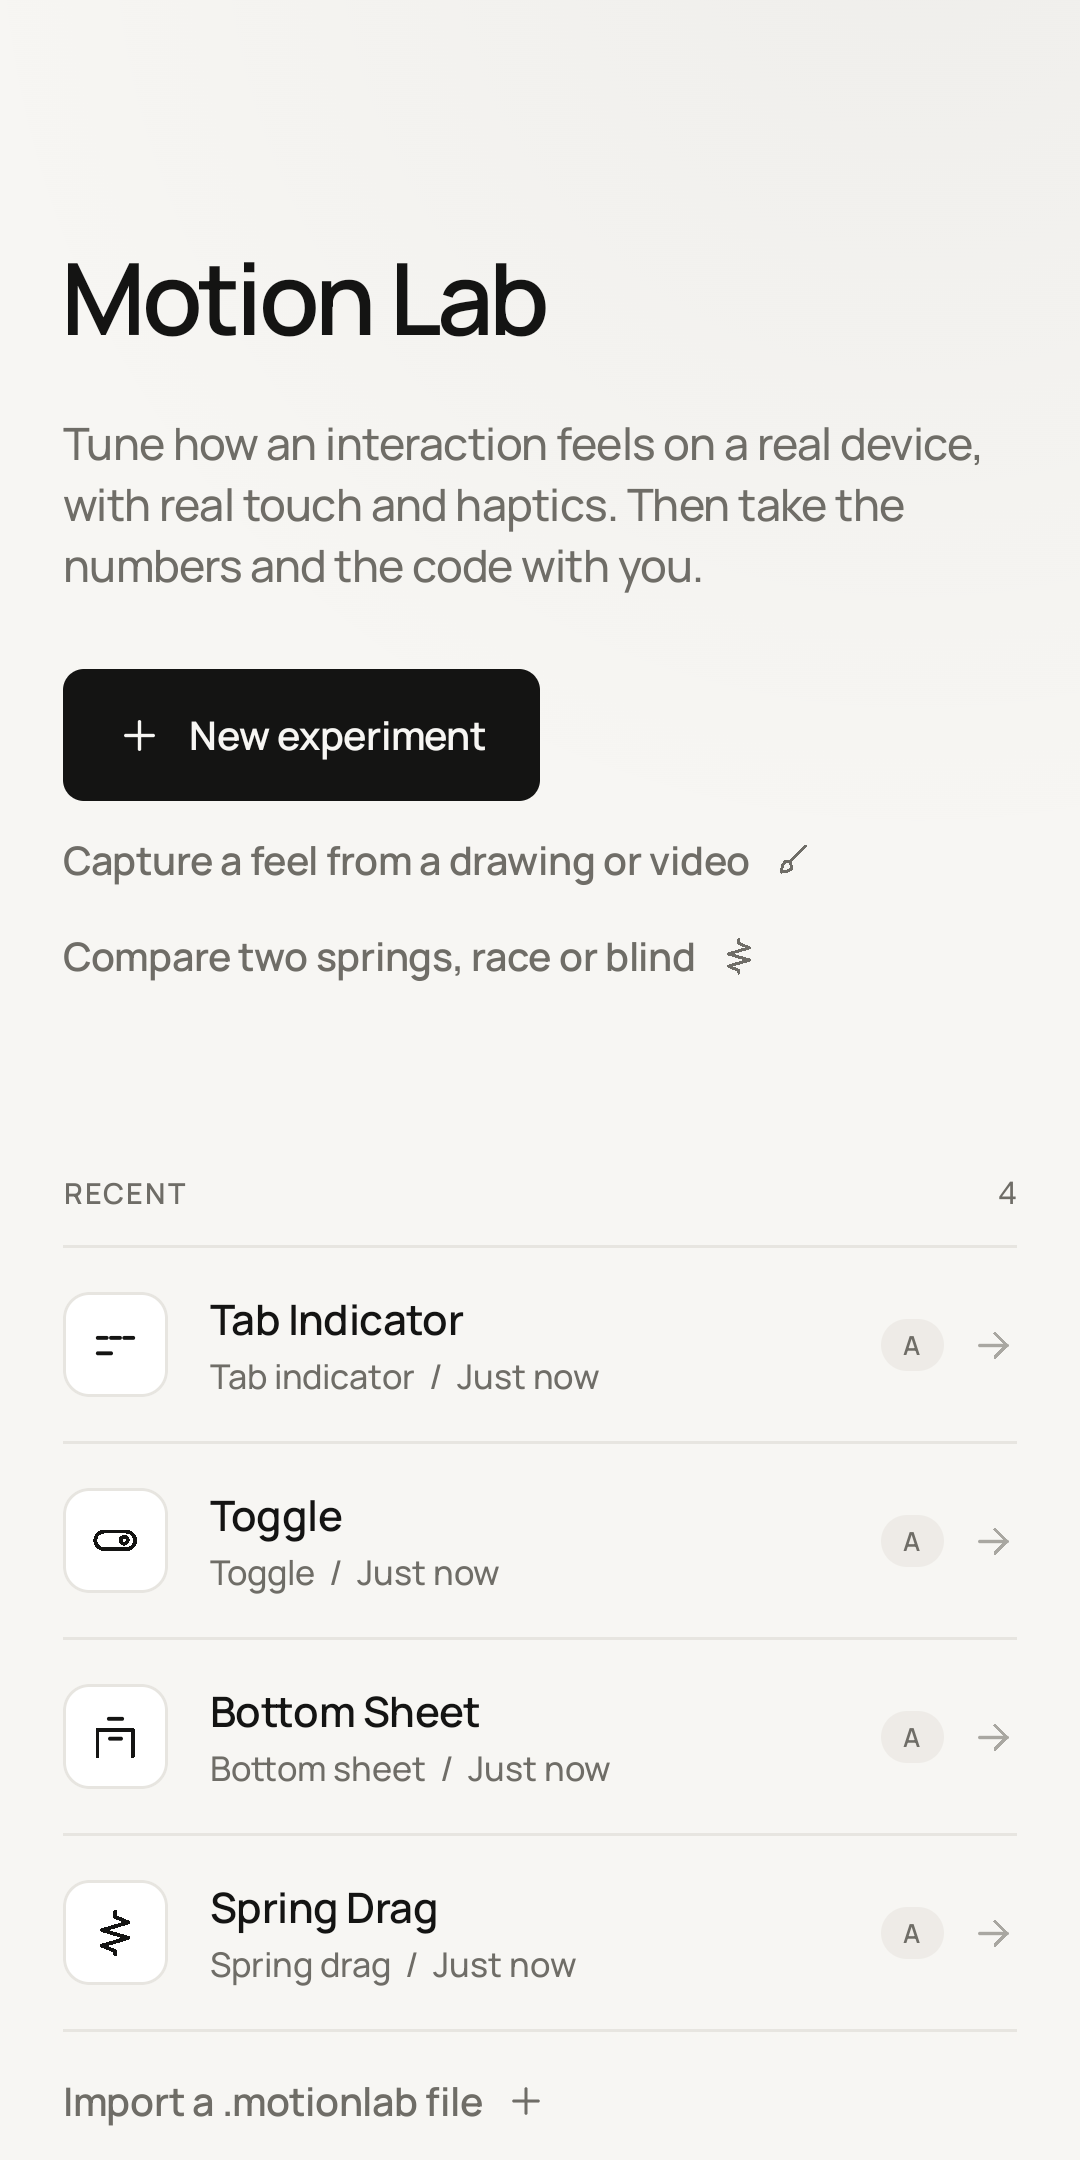
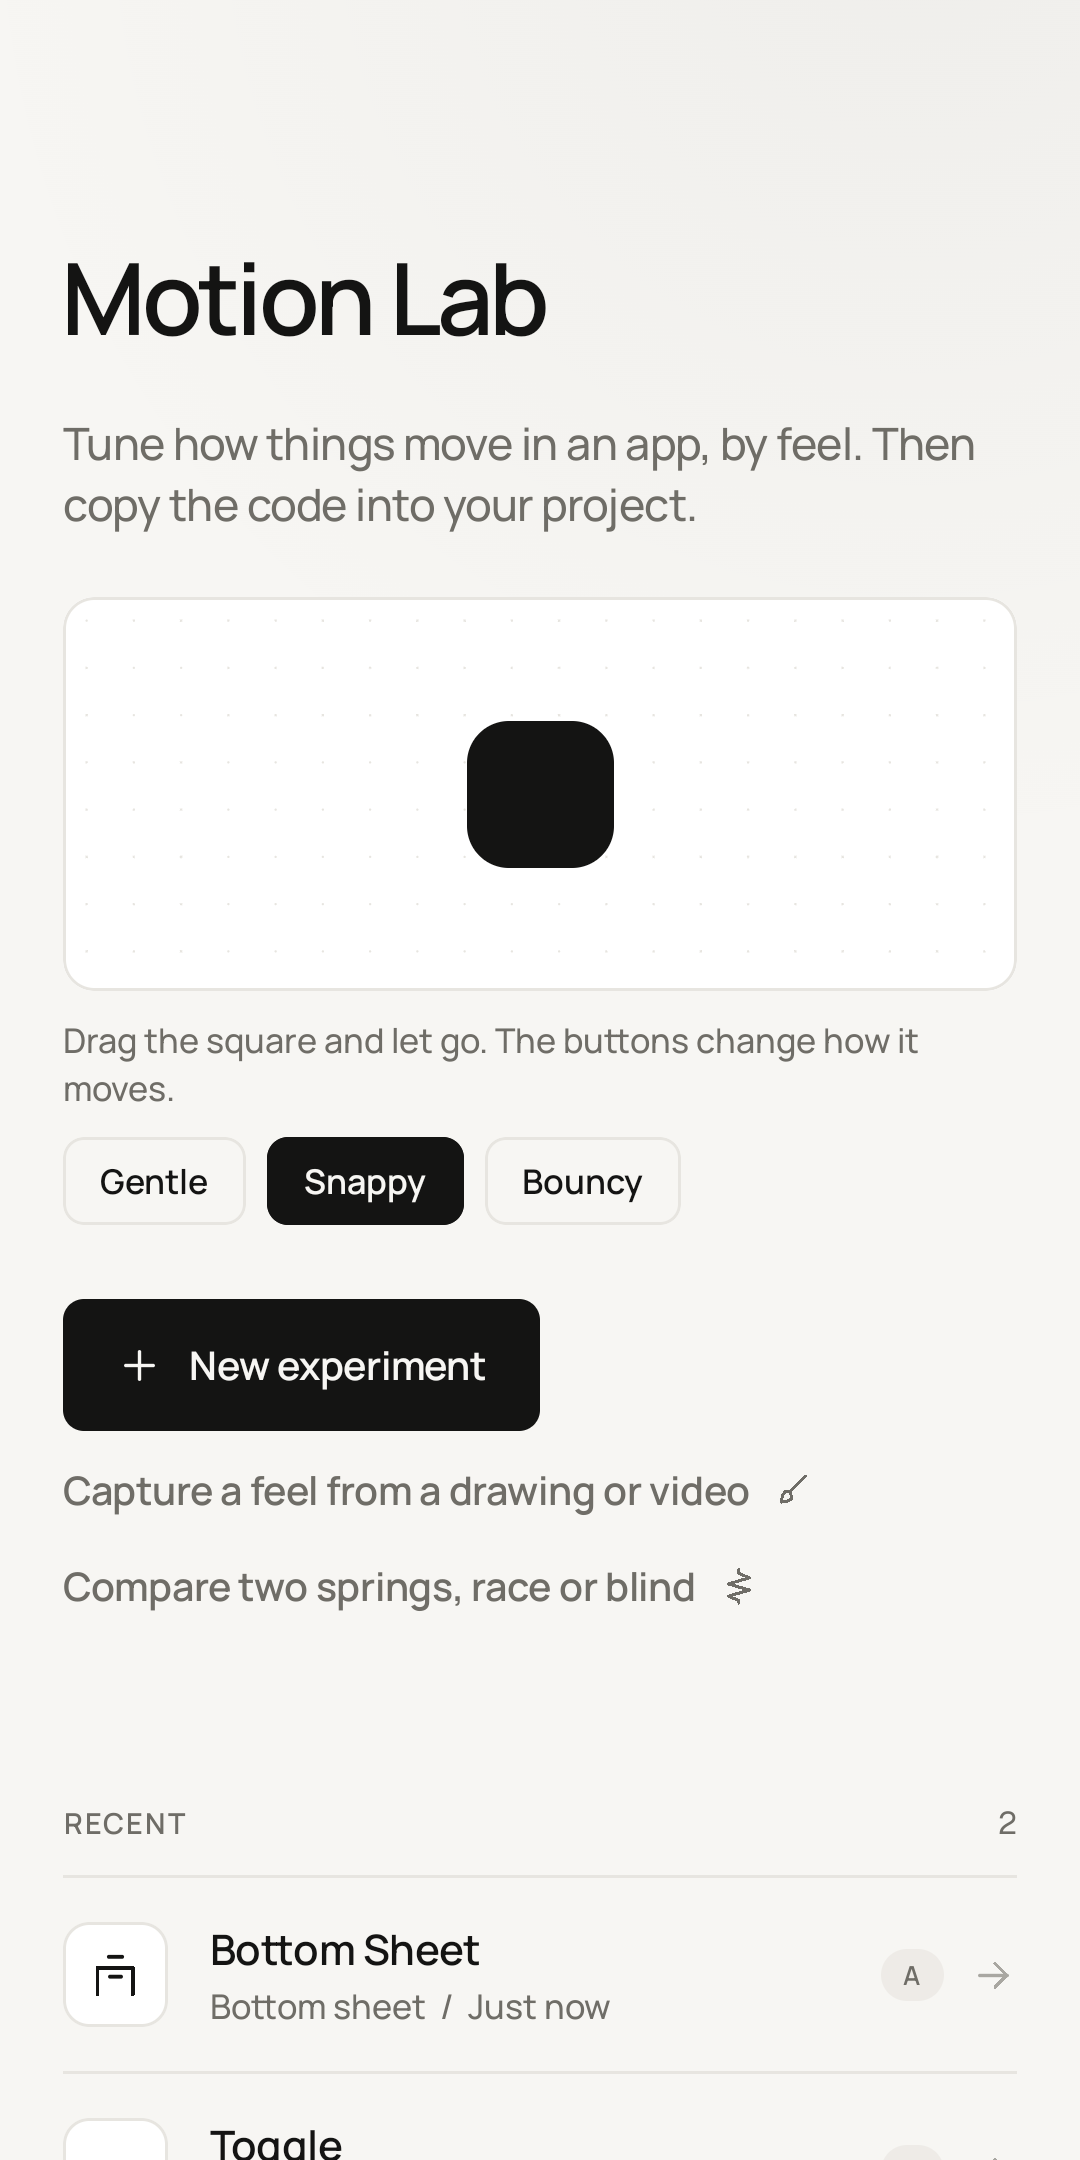
Make the first screen explain itself
- Home opens with a live demo: drag the square, three feel buttons change how it moves
- plain-language hints under Stiffness and Damping in every editor
- the screenshot button now sits in the stage corner instead of floating over the page
- refreshed store screenshots; tests for the demo and hints

diff --git a/app/src/main/java/com/motionlab/app/feature/home/HomeDemo.kt b/app/src/main/java/com/motionlab/app/feature/home/HomeDemo.kt
@@ -1,0 +1,98 @@
+package com.motionlab.app.feature.home
+
+import androidx.compose.animation.core.Animatable
+import androidx.compose.animation.core.spring
+import androidx.compose.foundation.background
+import androidx.compose.foundation.gestures.detectDragGestures
+import androidx.compose.foundation.layout.Arrangement
+import androidx.compose.foundation.layout.Box
+import androidx.compose.foundation.layout.Row
+import androidx.compose.foundation.layout.Spacer
+import androidx.compose.foundation.layout.fillMaxSize
+import androidx.compose.foundation.layout.height
+import androidx.compose.foundation.layout.size
+import androidx.compose.foundation.shape.RoundedCornerShape
+import androidx.compose.material3.MaterialTheme
+import androidx.compose.material3.Text
+import androidx.compose.runtime.Composable
+import androidx.compose.runtime.getValue
+import androidx.compose.runtime.mutableStateOf
+import androidx.compose.runtime.remember
+import androidx.compose.runtime.rememberCoroutineScope
+import androidx.compose.runtime.setValue
+import androidx.compose.ui.Alignment
+import androidx.compose.ui.Modifier
+import androidx.compose.ui.graphics.graphicsLayer
+import androidx.compose.ui.input.pointer.pointerInput
+import androidx.compose.ui.platform.LocalContext
+import androidx.compose.ui.platform.testTag
+import androidx.compose.ui.unit.dp
+import com.motionlab.app.core.haptics.HapticEffect
+import com.motionlab.app.core.haptics.HapticEngine
+import com.motionlab.app.core.model.MotionPreset
+import com.motionlab.app.core.physics.ParameterMapping
+import com.motionlab.app.ui.design.Chip
+import com.motionlab.app.ui.design.LocalTokens
+import com.motionlab.app.ui.design.Stage
+import kotlinx.coroutines.launch
+
+/**
+ * What the app is, shown instead of explained: drag the square, let go, feel it spring back. The three
+ * chips change how it moves, so the difference between a soft and a bouncy feel is felt in a few seconds.
+ * It's the same spring the editors tune and export.
+ */
+@Composable
+fun HomeDemo() {
+    val t = LocalTokens.current
+    val context = LocalContext.current
+    val haptics = remember { HapticEngine(context) }
+    val scope = rememberCoroutineScope()
+    val x = remember { Animatable(0f) }
+    var preset by remember { mutableStateOf(MotionPreset.SNAPPY) }
+    val demoPresets = listOf(MotionPreset.GENTLE, MotionPreset.SNAPPY, MotionPreset.BOUNCY)
+
+    Stage(height = 150.dp) {
+        Box(
+            Modifier
+                .fillMaxSize()
+                .testTag("homeDemo")
+                .pointerInput(preset) {
+                    val reach = size.width * 0.36f
+                    detectDragGestures(
+                        onDragStart = { scope.launch { x.stop() } },
+                        onDrag = { change, delta ->
+                            change.consume()
+                            scope.launch { x.snapTo((x.value + delta.x).coerceIn(-reach, reach)) }
+                        },
+                        onDragEnd = {
+                            scope.launch {
+                                x.animateTo(
+                                    0f,
+                                    spring(
+                                        dampingRatio = ParameterMapping.dampingRatio(preset.dampingT),
+                                        stiffness = ParameterMapping.stiffness(preset.stiffnessT),
+                                        visibilityThreshold = 0.5f,
+                                    ),
+                                )
+                                haptics.play(HapticEffect.TICK)
+                            }
+                        },
+                    )
+                },
+            contentAlignment = Alignment.Center,
+        ) {
+            Box(
+                Modifier
+                    .size(56.dp)
+                    .graphicsLayer { translationX = x.value }
+                    .background(t.ink, RoundedCornerShape(16.dp)),
+            )
+        }
+    }
+    Spacer(Modifier.height(10.dp))
+    Text("Drag the square and let go. The buttons change how it moves.", style = MaterialTheme.typography.bodySmall, color = t.inkSoft)
+    Spacer(Modifier.height(10.dp))
+    Row(horizontalArrangement = Arrangement.spacedBy(8.dp)) {
+        demoPresets.forEach { p -> Chip(p.displayName, selected = preset == p, onClick = { preset = p }) }
+    }
+}

diff --git a/app/src/androidTest/java/com/motionlab/app/FirstScreenFlowTest.kt b/app/src/androidTest/java/com/motionlab/app/FirstScreenFlowTest.kt
@@ -1,0 +1,49 @@
+package com.motionlab.app
+
+import androidx.compose.ui.geometry.Offset
+import androidx.compose.ui.test.assertIsDisplayed
+import androidx.compose.ui.test.junit4.createAndroidComposeRule
+import androidx.compose.ui.test.onNodeWithTag
+import androidx.compose.ui.test.onNodeWithText
+import androidx.compose.ui.test.performClick
+import androidx.compose.ui.test.performScrollTo
+import androidx.compose.ui.test.performTouchInput
+import androidx.test.ext.junit.runners.AndroidJUnit4
+import org.junit.Rule
+import org.junit.Test
+import org.junit.runner.RunWith
+
+/** What a newcomer sees first: a demo they can drag and feel, and plain words on the sliders. */
+@RunWith(AndroidJUnit4::class)
+class FirstScreenFlowTest {
+    @get:Rule
+    val composeTestRule = createAndroidComposeRule<MainActivity>()
+
+    @Test
+    fun homeShowsALiveDemoThatRespondsToDragsAndToTheFeelButtons() {
+        composeTestRule.onNodeWithText("Tune how things move in an app, by feel. Then copy the code into your project.").assertIsDisplayed()
+        composeTestRule.onNodeWithText("Drag the square and let go. The buttons change how it moves.").assertIsDisplayed()
+        composeTestRule.onNodeWithText("Bouncy").performClick()
+        composeTestRule.onNodeWithTag("homeDemo").performTouchInput {
+            down(center)
+            repeat(6) { moveBy(Offset(30f, 0f)) }
+            up()
+        }
+        composeTestRule.waitForIdle() // the spring settles by itself, so the screen goes idle
+        composeTestRule.onNodeWithTag("homeDemo").assertIsDisplayed()
+        composeTestRule.onNodeWithText("Gentle").performClick()
+        composeTestRule.onNodeWithText("New experiment").assertIsDisplayed()
+    }
+
+    @Test
+    fun theEditorExplainsStiffnessAndDampingInPlainWords() {
+        composeTestRule.onNodeWithText("New experiment").performScrollTo().performClick()
+        composeTestRule.waitForIdle()
+        composeTestRule.onNodeWithText("Spring drag").performScrollTo().performClick()
+        composeTestRule.waitForIdle()
+        composeTestRule.onNodeWithText("How fast it snaps back to rest.").performScrollTo().assertIsDisplayed()
+        composeTestRule.onNodeWithText("How much it bounces. Low bounces a lot, high doesn't bounce.").performScrollTo().assertIsDisplayed()
+        // The screenshot button now lives on the stage, so it scrolls with the page instead of floating over it.
+        composeTestRule.onNodeWithTag("backdropChip").assertExists()
+    }
+}

diff --git a/app/src/main/java/com/motionlab/app/feature/editor/BackdropHost.kt b/app/src/main/java/com/motionlab/app/feature/editor/BackdropHost.kt
@@ -34,6 +34,8 @@ import com.motionlab.app.data.BackdropRepository
 import com.motionlab.app.ui.design.Backdrop
 import com.motionlab.app.ui.design.Chip
 import com.motionlab.app.ui.design.LocalBackdrop
+import com.motionlab.app.ui.design.LocalBackdropAction
+import com.motionlab.app.ui.design.LocalBackdropActive
 import com.motionlab.app.ui.design.LocalTokens
 import com.motionlab.app.ui.design.ValueSlider
 import kotlinx.coroutines.Dispatchers
@@ -43,7 +45,7 @@ import kotlinx.coroutines.withContext
 /**
  * Wraps an experiment's editor so its stage can show a screenshot of the person's own app behind the
  * moving object. Every editor draws through the shared Stage, so none of them changes: this loads the
- * image, provides it, and adds one small control at the top right.
+ * image, provides it, and the stage shows one small button for it in its own corner.
  */
 @Composable
 fun BackdropHost(experimentId: Long, repository: BackdropRepository, content: @Composable () -> Unit) {
@@ -63,13 +65,12 @@ fun BackdropHost(experimentId: Long, repository: BackdropRepository, content: @C
     }
     val backdrop = image?.let { Backdrop(it, focus) }
 
-    CompositionLocalProvider(LocalBackdrop provides backdrop) {
-        Box(Modifier.fillMaxSize()) {
-            content()
-            Box(Modifier.align(Alignment.TopEnd).systemBarsPadding().padding(top = 13.dp, end = 24.dp)) {
-                Chip("Screenshot", selected = backdrop != null, onClick = { open = true }, modifier = Modifier.testTag("backdropChip"))
-            }
-        }
+    CompositionLocalProvider(
+        LocalBackdrop provides backdrop,
+        LocalBackdropAction provides { open = true },
+        LocalBackdropActive provides (backdrop != null),
+    ) {
+        content()
     }
 
     if (open) {

diff --git a/app/src/main/java/com/motionlab/app/ui/design/Components.kt b/app/src/main/java/com/motionlab/app/ui/design/Components.kt
@@ -337,8 +337,14 @@ fun Stage(
             }
             .border(t.hairline, t.line, shape),
         contentAlignment = Alignment.Center,
-        content = content,
-    )
+    ) {
+        content()
+        LocalBackdropAction.current?.let { open ->
+            Box(Modifier.align(Alignment.TopEnd).padding(10.dp)) {
+                Chip("Screenshot", selected = LocalBackdropActive.current, onClick = open, modifier = Modifier.testTag("backdropChip"))
+            }
+        }
+    }
 }
 
 /** Fill and border for an object, by role, so it follows the theme. */
@@ -372,6 +378,8 @@ fun ValueSlider(
     value: Float,
     onValueChange: (Float) -> Unit,
     onValueChangeFinished: (() -> Unit)? = null,
+    /** One plain-language line under the label, for a control whose name a newcomer wouldn't know. */
+    hint: String? = null,
 ) {
     val t = LocalTokens.current
     Column(Modifier.padding(vertical = 2.dp)) {
@@ -379,6 +387,7 @@ fun ValueSlider(
             Text(label, style = MaterialTheme.typography.bodyMedium, color = t.ink)
             Text("${(value * 100).toInt()}", style = MonoSmall, color = t.inkSoft)
         }
+        if (hint != null) Text(hint, style = MaterialTheme.typography.bodySmall, color = t.inkSoft)
         Slider(
             modifier = Modifier.testTag(sliderTestTag(label)),
             value = value,

diff --git a/app/src/main/java/com/motionlab/app/feature/home/HomeScreen.kt b/app/src/main/java/com/motionlab/app/feature/home/HomeScreen.kt
@@ -175,11 +175,12 @@ fun HomeScreen(
             Text("Motion Lab", style = MaterialTheme.typography.displayMedium, color = t.ink)
             Spacer(Modifier.height(18.dp))
             Text(
-                text = "Tune how an interaction feels on a real device, with real touch and haptics. " +
-                    "Then take the numbers and the code with you.",
+                text = "Tune how things move in an app, by feel. Then copy the code into your project.",
                 style = MaterialTheme.typography.bodyLarge,
                 color = t.inkSoft,
             )
+            Spacer(Modifier.height(24.dp))
+            HomeDemo()
             Spacer(Modifier.height(28.dp))
             PrimaryButton("New experiment", onClick = onNewExperiment, icon = IconKind.PLUS)
             Spacer(Modifier.height(4.dp))

diff --git a/app/src/main/java/com/motionlab/app/feature/editor/LabeledSlider.kt b/app/src/main/java/com/motionlab/app/feature/editor/LabeledSlider.kt
@@ -15,4 +15,16 @@ internal fun LabeledSlider(
     value: Float,
     onValueChange: (Float) -> Unit,
     onValueChangeFinished: (() -> Unit)? = null,
-) = ValueSlider(label, value, onValueChange, onValueChangeFinished)
+) = ValueSlider(label, value, onValueChange, onValueChangeFinished, hint = SliderHints.forLabel(label))
+
+/** Plain words for the two spring sliders every editor has, so nobody has to know what stiffness or damping mean. */
+internal object SliderHints {
+    const val STIFFNESS = "How fast it snaps back to rest."
+    const val DAMPING = "How much it bounces. Low bounces a lot, high doesn't bounce."
+
+    fun forLabel(label: String): String? = when (label) {
+        "Stiffness" -> STIFFNESS
+        "Damping" -> DAMPING
+        else -> null
+    }
+}

diff --git a/app/src/main/java/com/motionlab/app/ui/design/Backdrop.kt b/app/src/main/java/com/motionlab/app/ui/design/Backdrop.kt
@@ -8,3 +8,9 @@ class Backdrop(val image: ImageBitmap, val focusY: Float)
 
 /** Provided around an experiment's editor when it has a screenshot; null everywhere else. */
 val LocalBackdrop = staticCompositionLocalOf<Backdrop?> { null }
+
+/** Set by the editor host to open the screenshot picker; [Stage] shows a small button for it in its own corner, so it scrolls with the page. Null elsewhere. */
+val LocalBackdropAction = staticCompositionLocalOf<(() -> Unit)?> { null }
+
+/** Whether a screenshot is currently showing, so the stage's button can say so. */
+val LocalBackdropActive = staticCompositionLocalOf { false }
